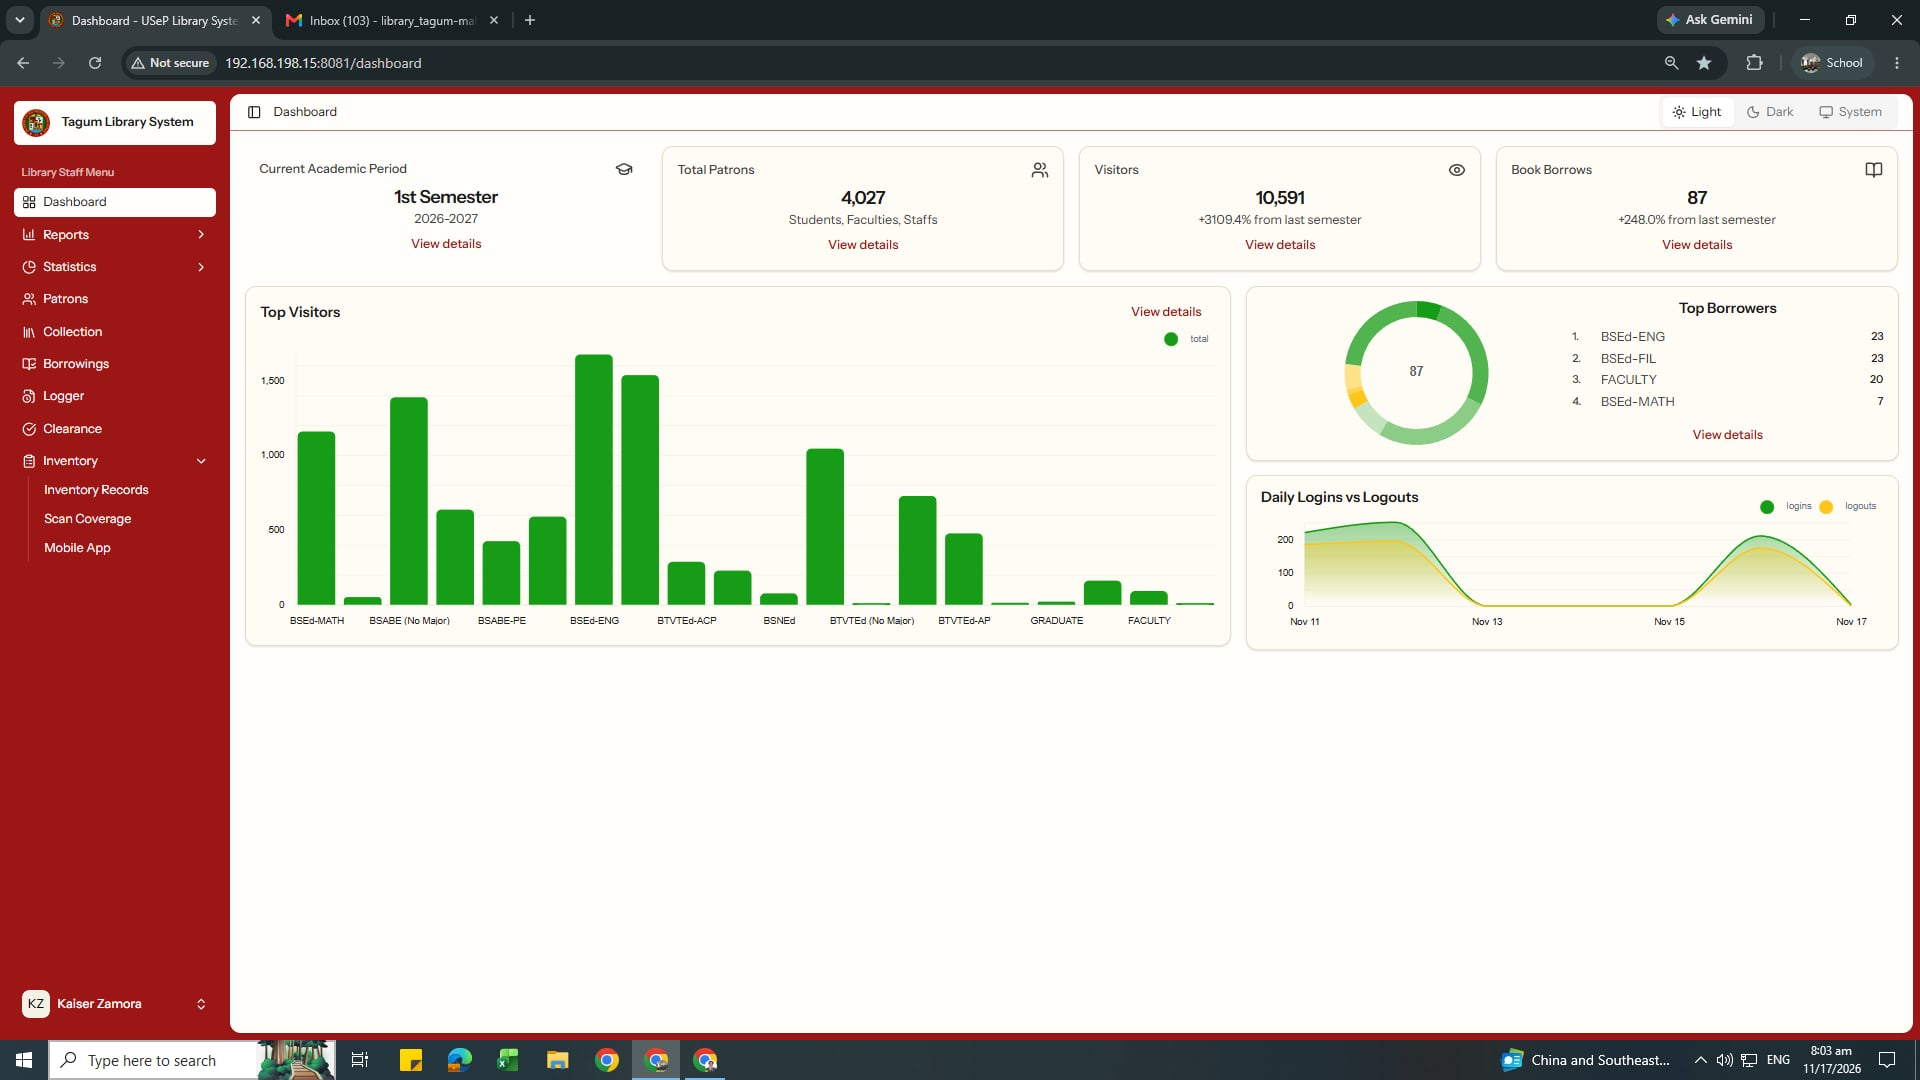
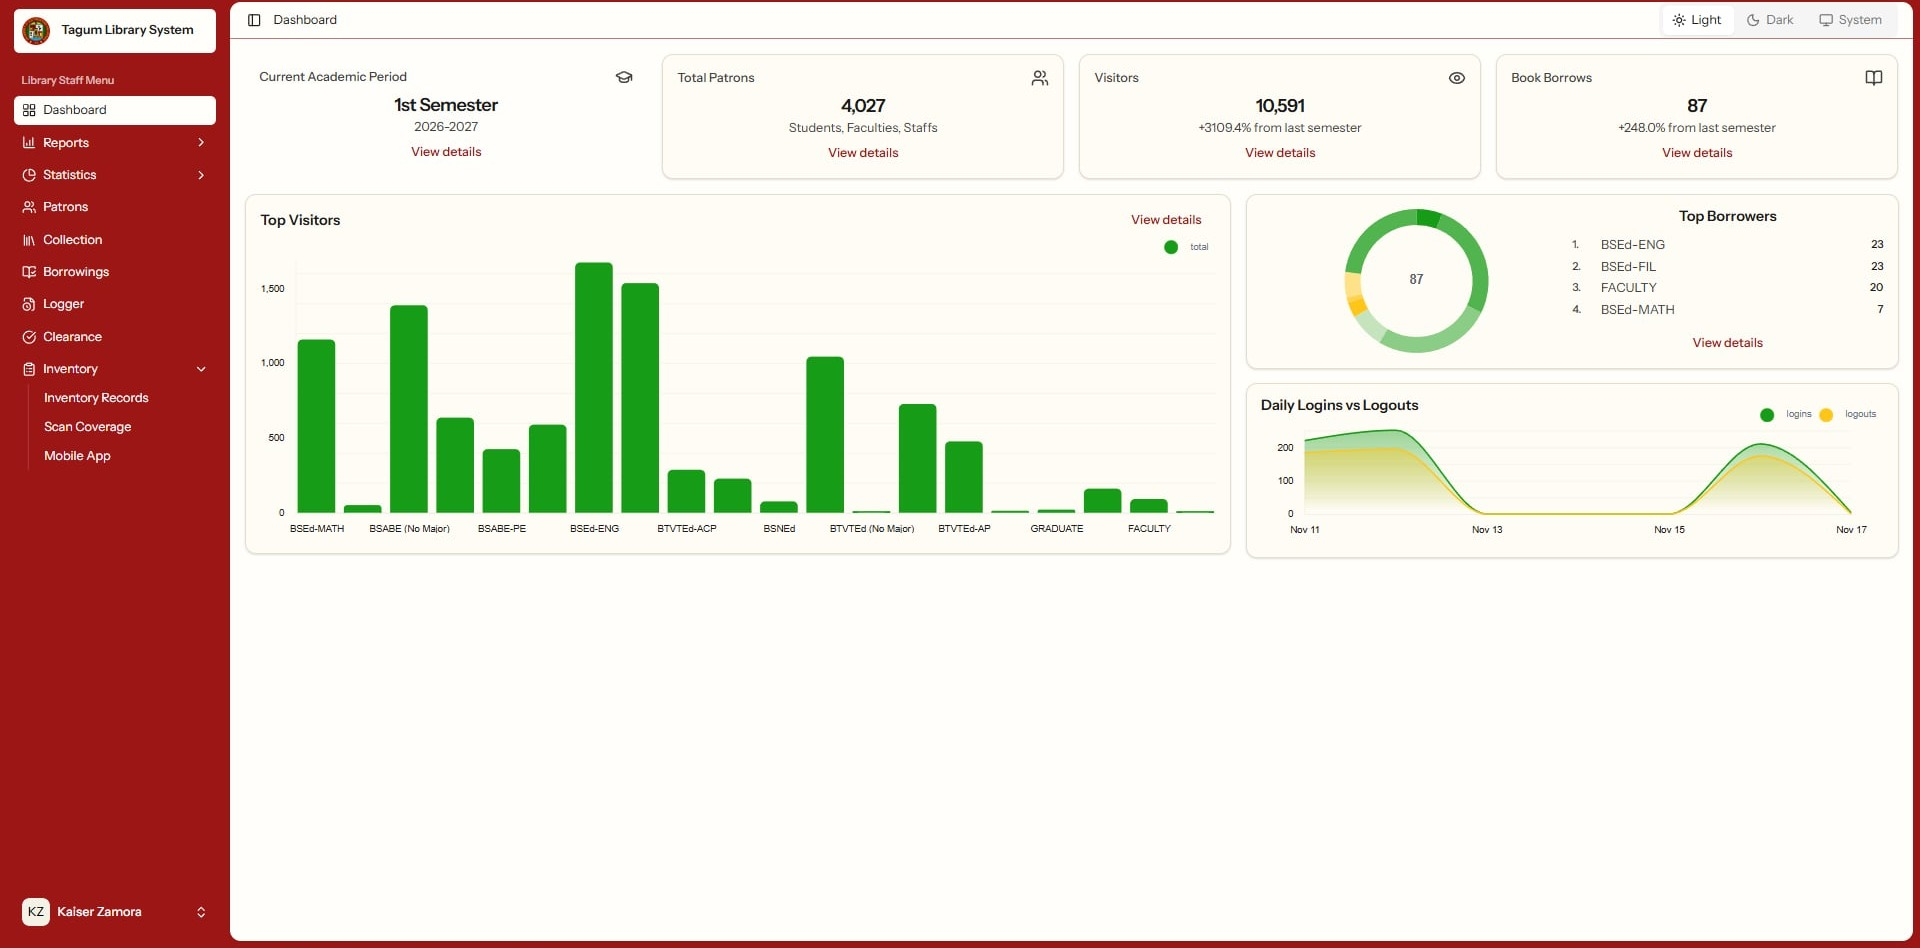
Crop browser chrome and toast from OPAC shots, fill cover letterbox

diff --git a/resources/css/portfolio.css b/resources/css/portfolio.css
@@ -427,8 +427,8 @@ p { margin: 0 0 14px; max-width: 64ch }
   display: block;
   width: 100%;
   height: min(52vh, 420px);
-  object-fit: contain;
-  object-position: center;
+  object-fit: cover;
+  object-position: top center;
   background: var(--panel2);
   border: 1px solid var(--line);
   border-radius: 12px;
